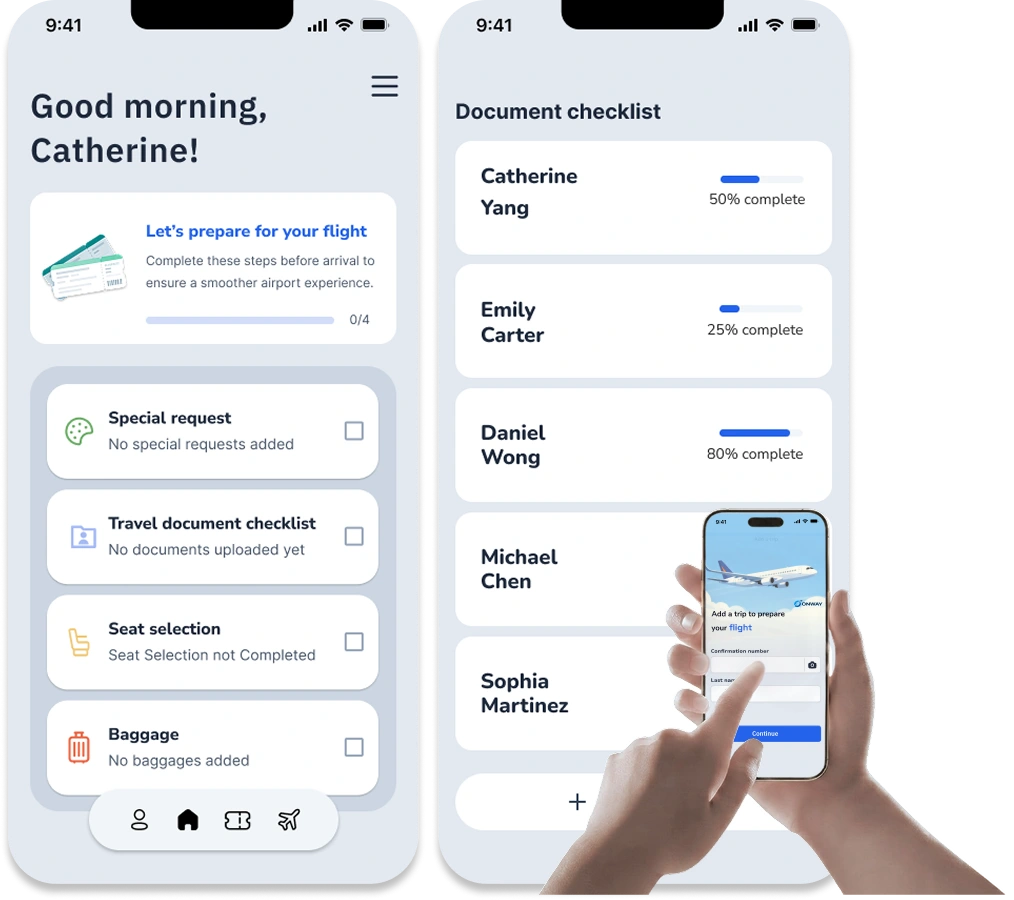
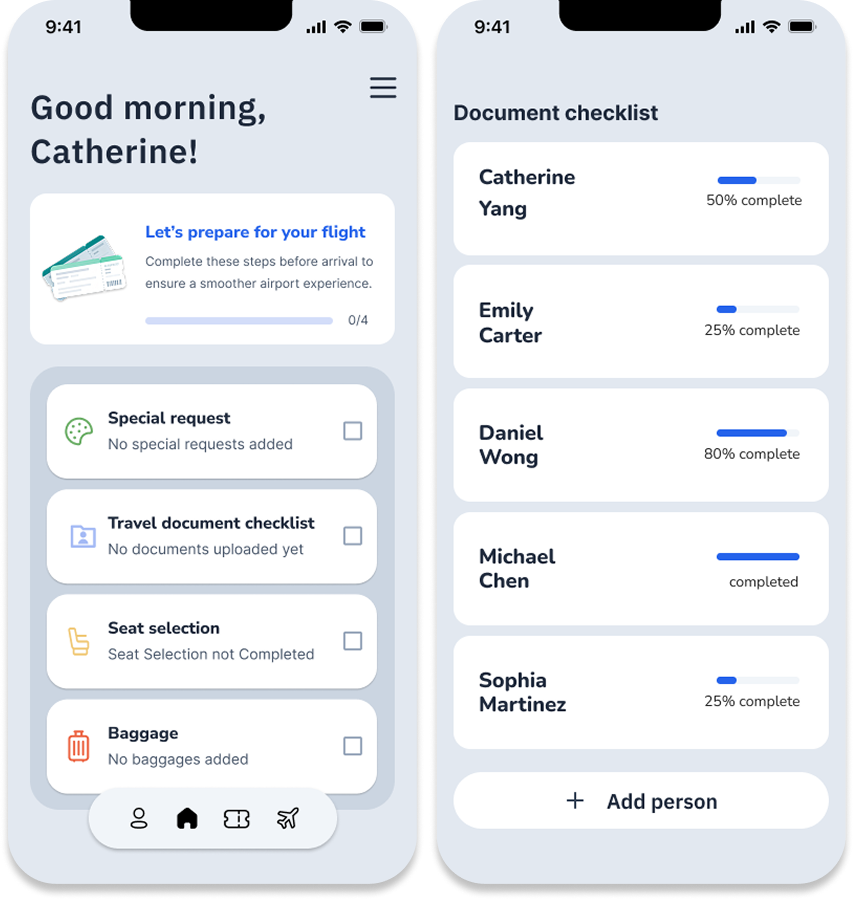
Replace homepage project images and Pathway hero title

diff --git a/index.html b/index.html
@@ -75,7 +75,7 @@
       <a class="project-card project-card--pathway" data-theme="pathway" aria-labelledby="pathway-title" href="pathway-case-study/index.html" aria-label="Open Pathway case study">
         <p class="project-label">PATHWAY</p>
         <div class="project-grid project-grid--image-first">
-          <img class="project-art project-art--pathway" src="assets/homepage-pathway.webp" alt="Pathway employment center kiosk and web dashboard" width="1053" height="742" loading="lazy" decoding="async">
+          <img class="project-art project-art--pathway" src="assets/homepage-pathway.webp" alt="Pathway employment center kiosk and web dashboard" width="935" height="709" loading="lazy" decoding="async">
           <div class="project-copy">
             <h2 id="pathway-title">Self-service kiosk and web experience for community employment centers</h2>
             <span class="project-button project-button--green" aria-hidden="true">
@@ -89,7 +89,7 @@
       <a class="project-card project-card--relo" data-theme="relo" aria-labelledby="relo-title" href="relo-case-study/index.html" aria-label="Open Relo case study">
         <p class="project-label">RELO</p>
         <div class="project-grid project-grid--image-first">
-          <img class="project-art project-art--relo" src="assets/homepage-relo.webp" alt="Relo furniture handoff mobile app" width="1021" height="901" loading="lazy" decoding="async">
+          <img class="project-art project-art--relo" src="assets/homepage-relo.webp" alt="Relo furniture handoff mobile app" width="801" height="910" loading="lazy" decoding="async">
           <div class="project-copy">
             <h2 id="relo-title">Furniture hand off app for outgoing and incoming tenants</h2>
             <span class="project-button project-button--orange" aria-hidden="true">
@@ -103,7 +103,7 @@
       <a class="project-card project-card--onway" data-theme="onway" aria-labelledby="onway-title" href="onway-case-study/index.html" aria-label="Open Onway case study">
         <p class="project-label">ONWAY</p>
         <div class="project-grid project-grid--image-first">
-          <img class="project-art project-art--onway" src="assets/homepage-onway.webp" alt="Onway post-booking travel preparation mobile app" width="1014" height="900" loading="lazy" decoding="async">
+          <img class="project-art project-art--onway" src="assets/homepage-onway.webp" alt="Onway post-booking travel preparation mobile app" width="854" height="900" loading="lazy" decoding="async">
           <div class="project-copy project-copy--onway">
             <h2 id="onway-title">Step-by-step guide to prepare for an upcoming flight</h2>
             <span class="project-button project-button--blue" aria-hidden="true">

diff --git a/pathway-case-study/index.html b/pathway-case-study/index.html
@@ -57,7 +57,7 @@
 
 <section class="case-hero case-hero--pathway" aria-label="Pathway project hero">
   <img class="case-hero__background" src="assets/pathway-hero-background.webp" alt="" aria-hidden="true" width="2048" height="1369" decoding="async" fetchpriority="high">
-  <img class="case-hero__title" src="assets/pathway-hero-title.png" alt="Pathway" width="1990" height="560" decoding="async">
+  <img class="case-hero__title" src="assets/pathway-hero-title.webp" alt="Pathway" width="2048" height="432" decoding="async">
   <img class="case-hero__mockup" src="assets/pathway-hero-kiosk.webp" alt="Pathway kiosk mockup" width="693" height="621" decoding="async">
 </section>
 
